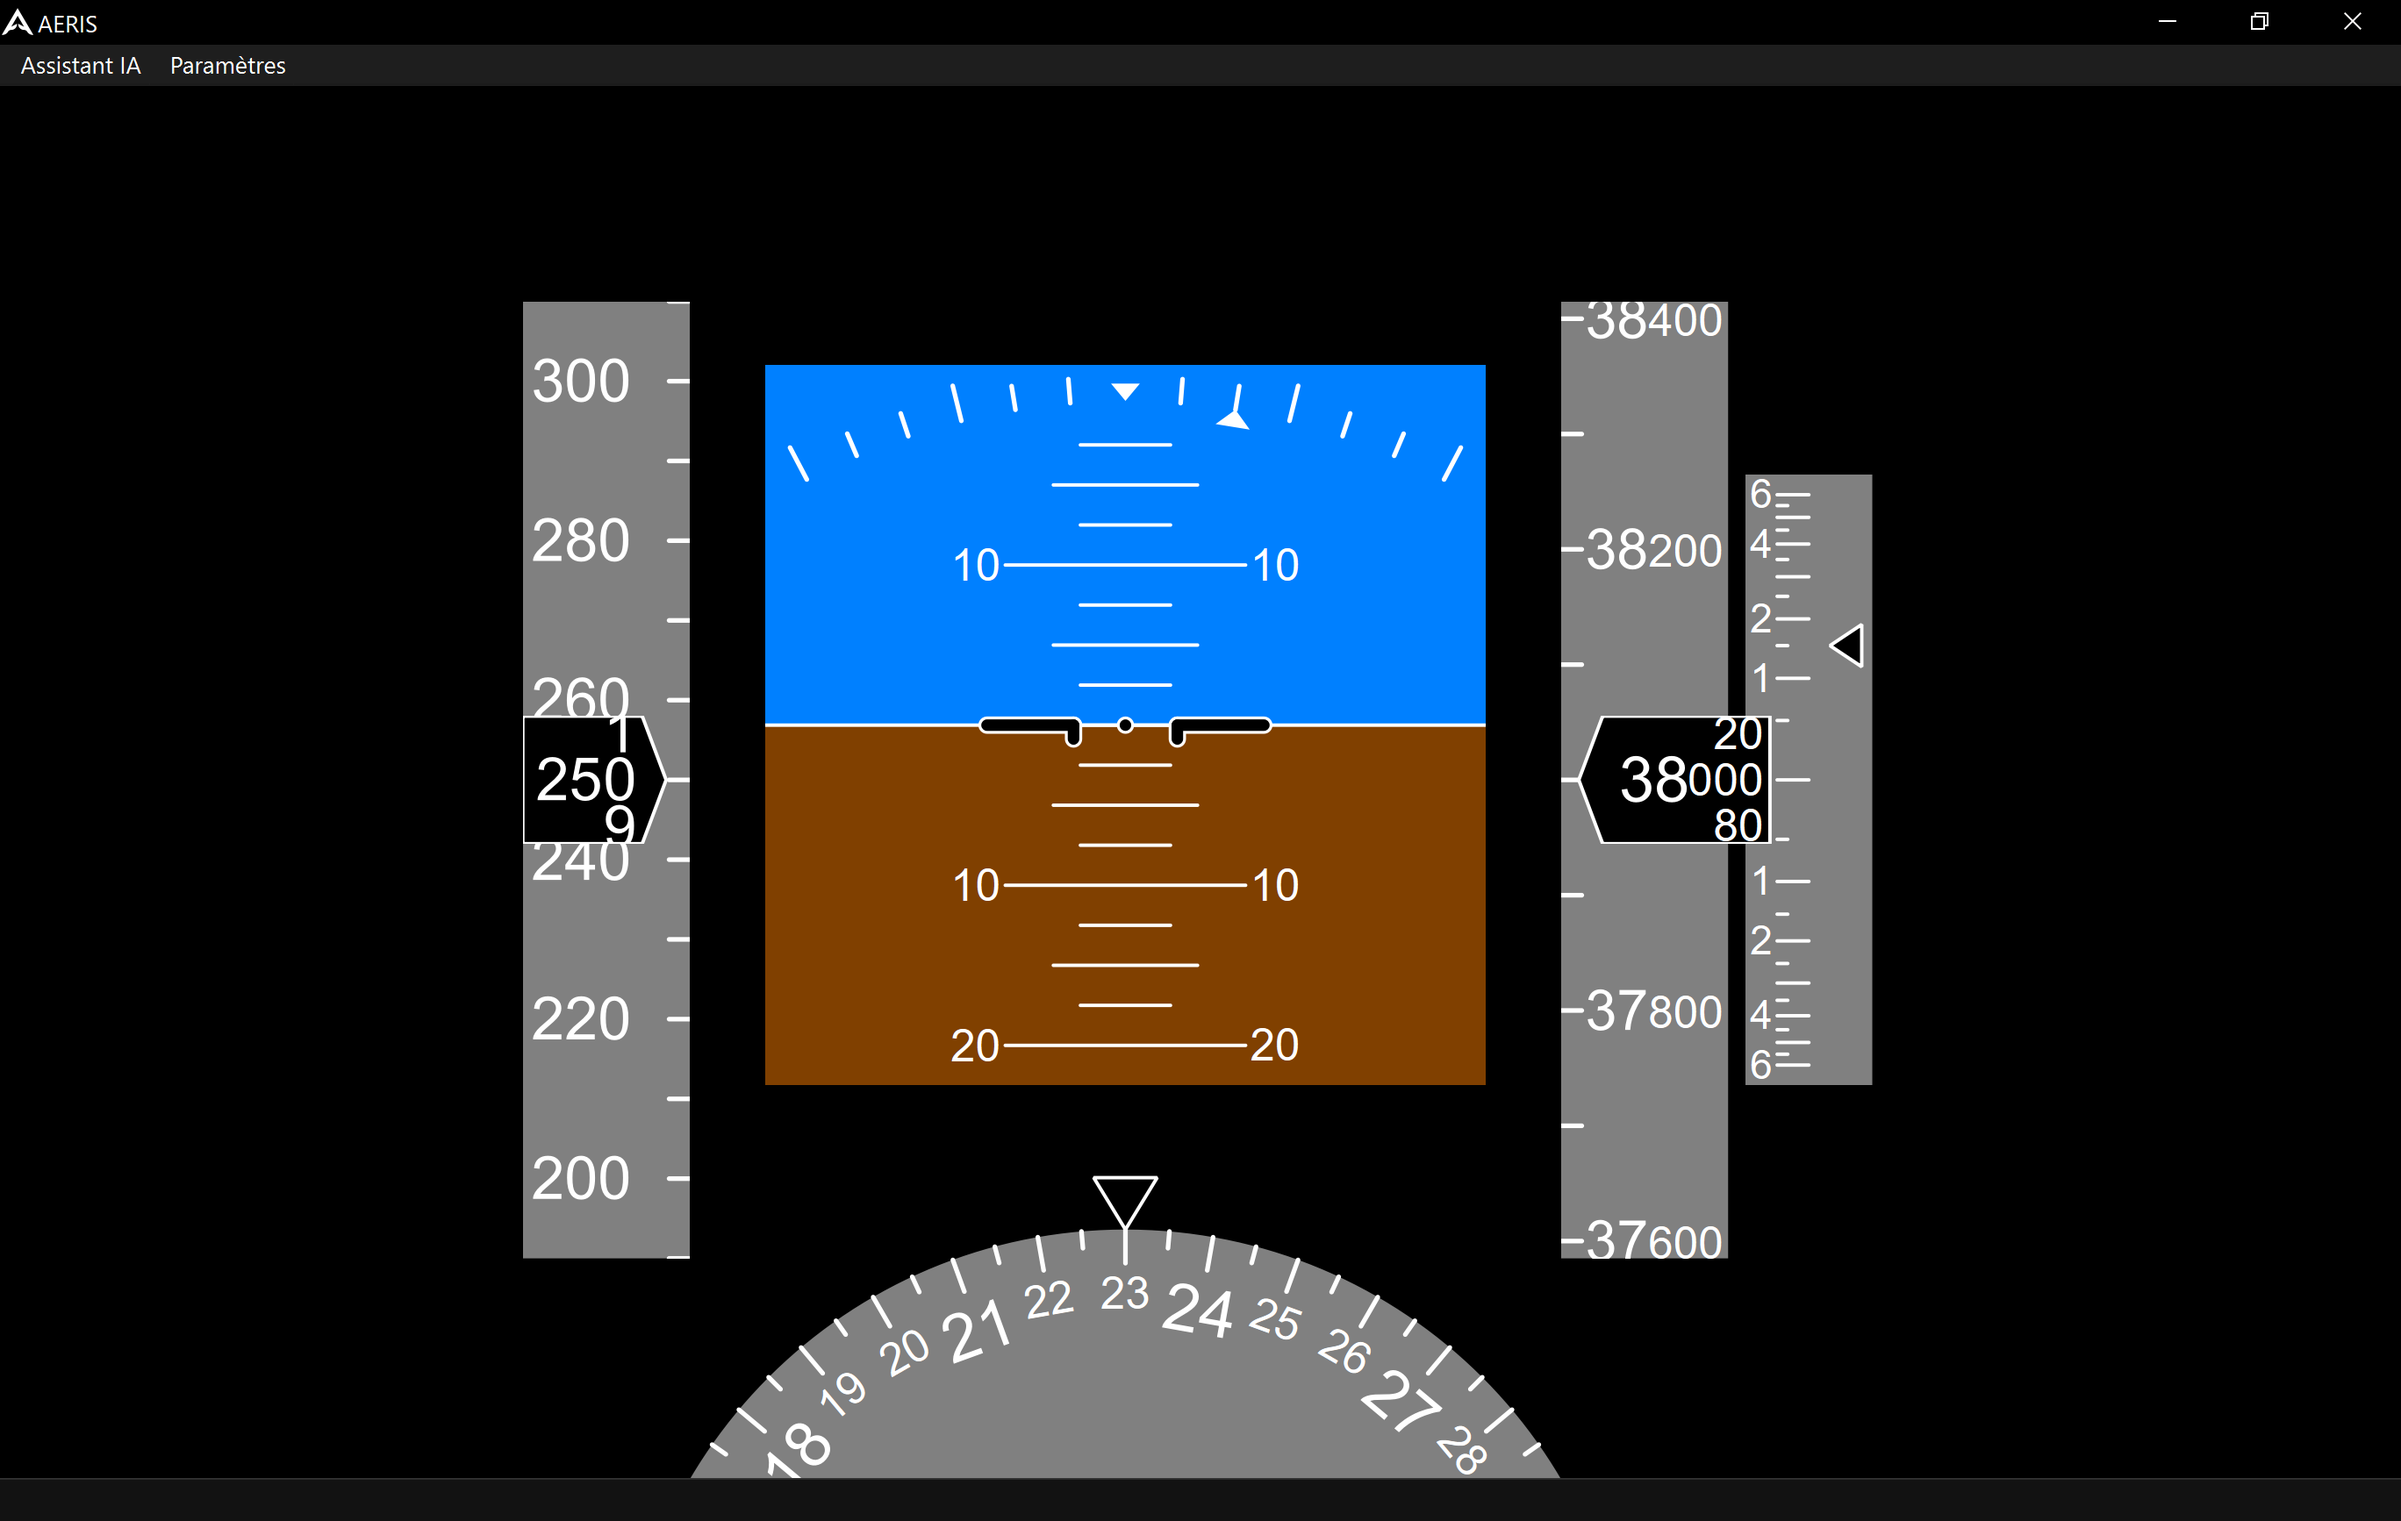
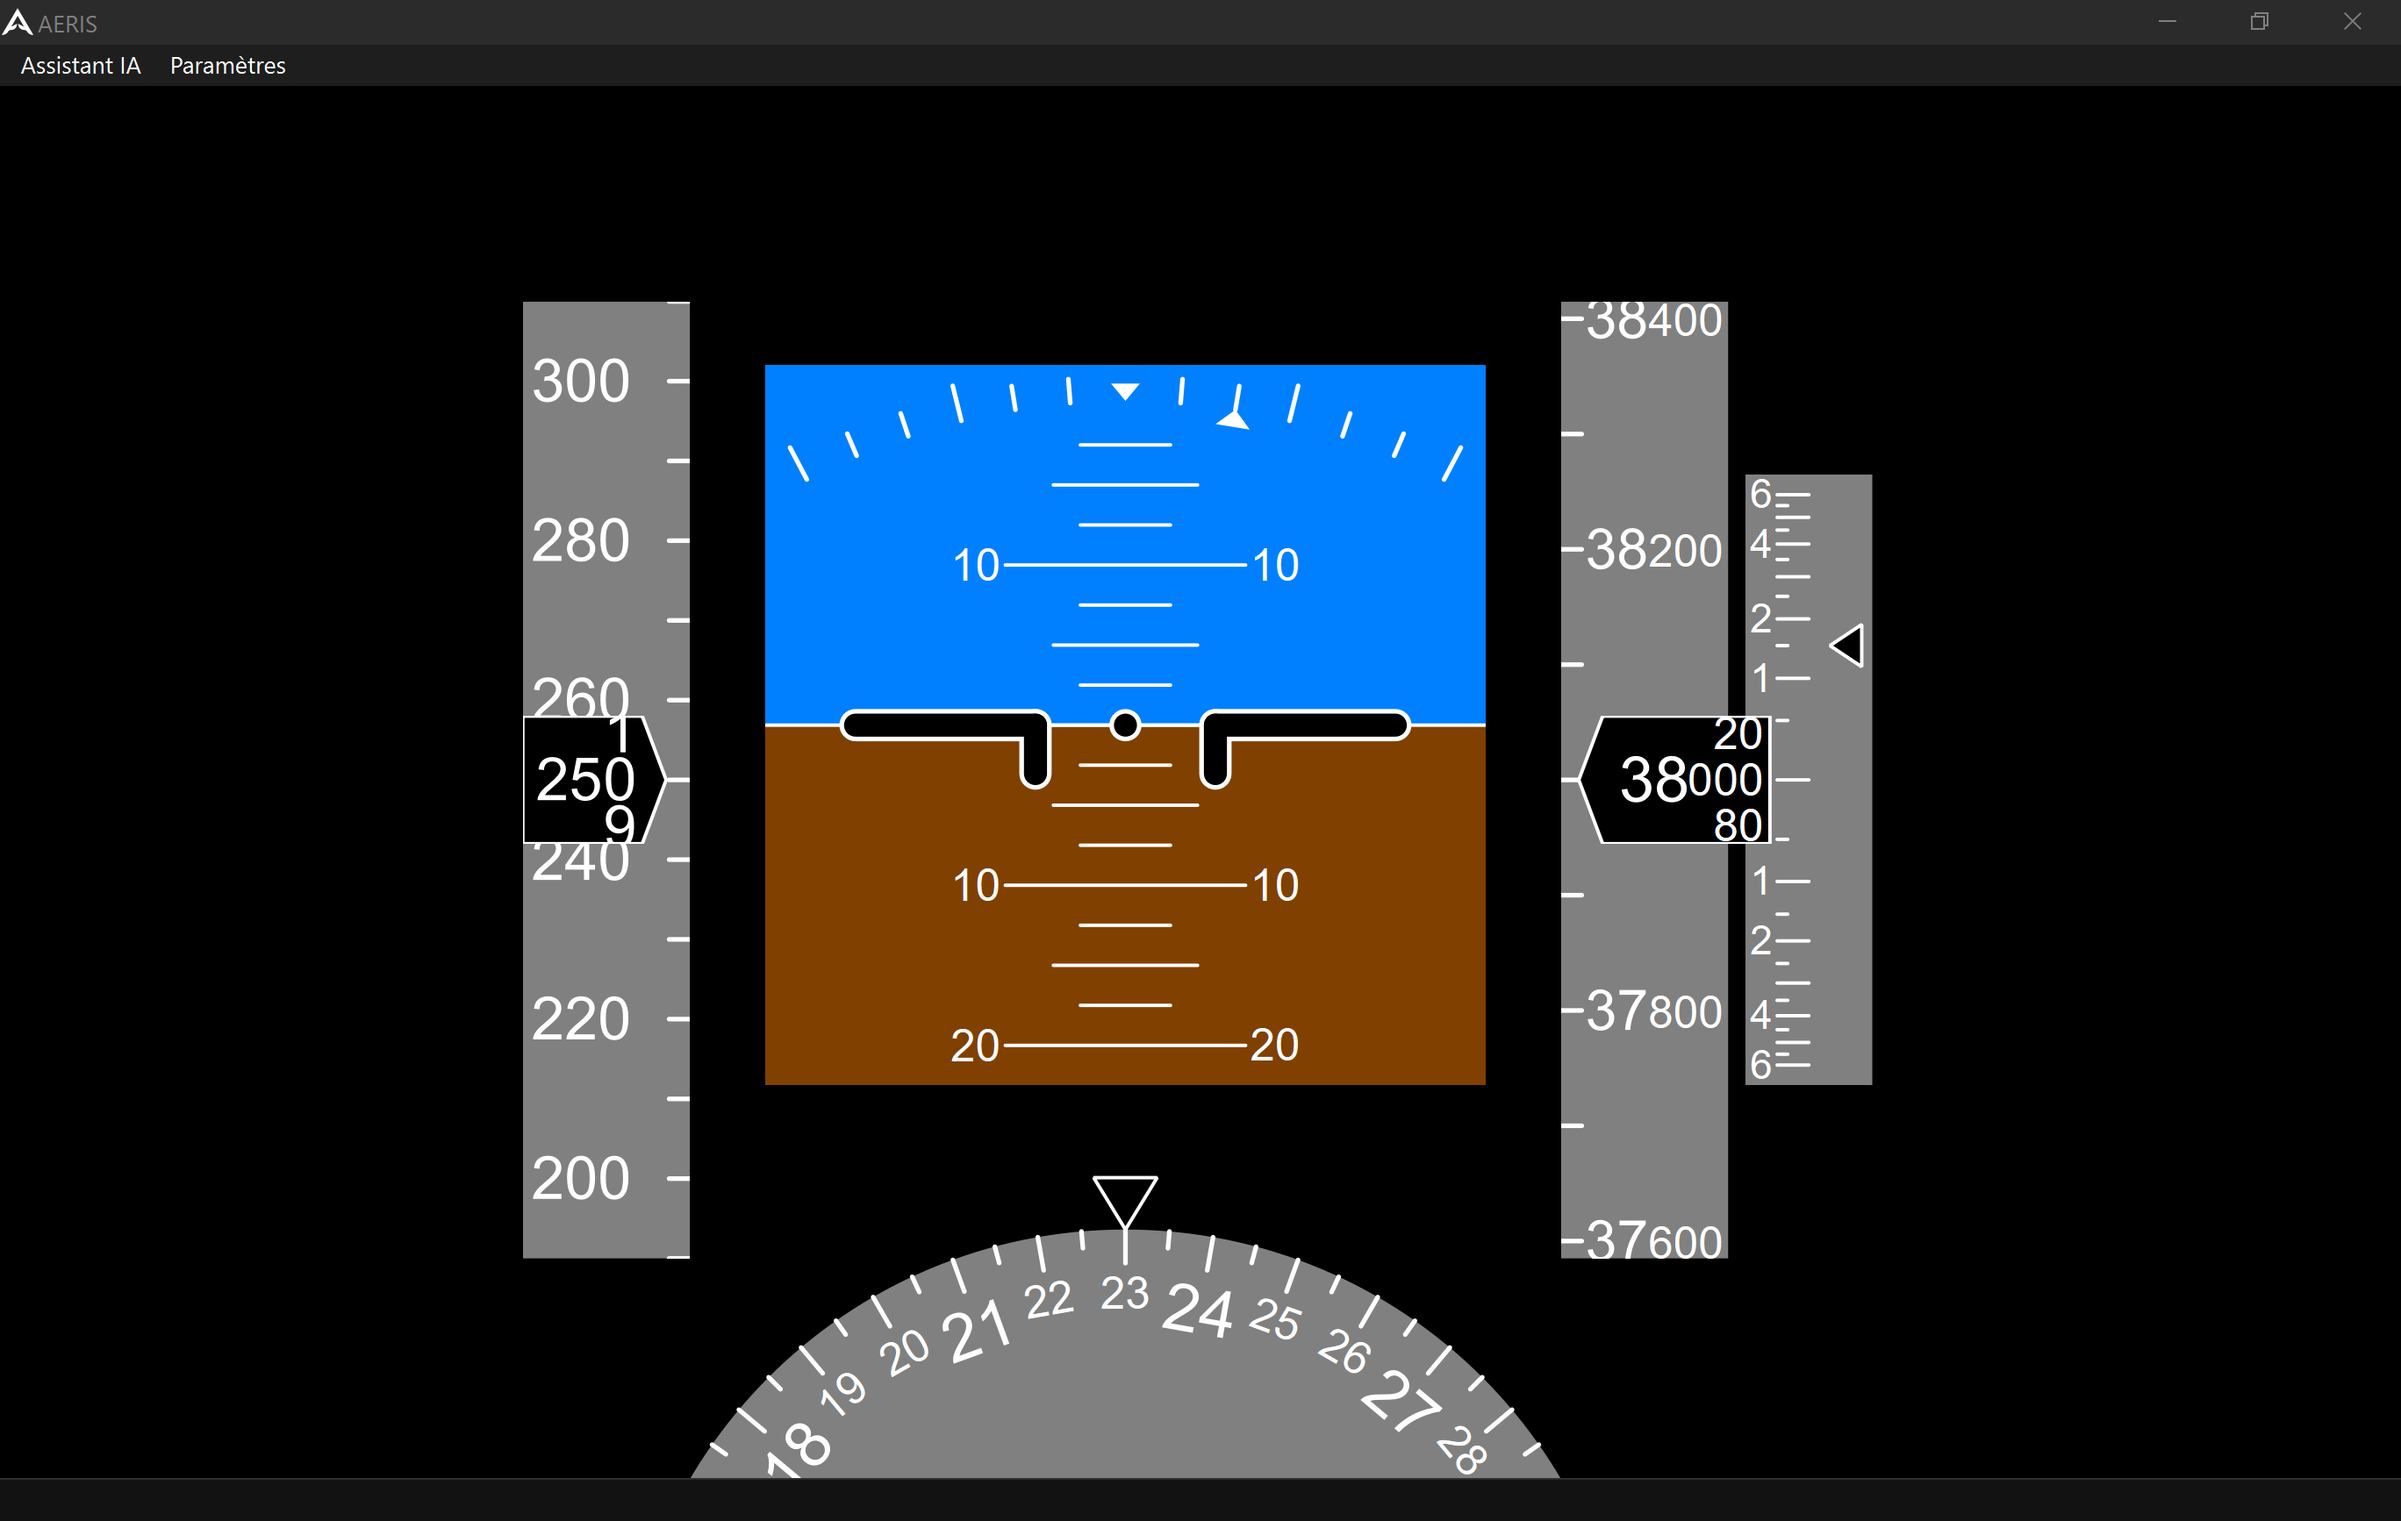
Modification de l'affichage de l'avion de l'horizon artificiel

Changed region(s): [[0.0, 0.0, 1.0, 0.0311], [0.3417, 0.4671, 0.5903, 0.5294]]

diff --git a/software/ui/artificialHorizon/instrument.py b/software/ui/artificialHorizon/instrument.py
@@ -17,12 +17,12 @@ class ArtificialHorizonInstrument(QGraphicsItemGroup):
         self.height = height
 
         settings = QSettings("ENSC", "AERIS")
-        self.currentLineWeight = settings.value("lineWeight", 10, int)
-        self.currentDotRadius = settings.value("dotSize", 10, int)
-        self.currentOutlineWeight = settings.value("outlineWeight", 5, int)
-        self.currentWingsDistance = settings.value("WingsDistance", 45, int)
-        self.currentWingsSpan = settings.value("WingsSpan", 75, int)
-        self.currentWingsHeight = settings.value("WingsHeight", 12, int)
+        self.currentLineWeight = settings.value("lineWeight", int(width/30), int)
+        self.currentDotRadius = settings.value("dotSize", int(width/30), int)
+        self.currentOutlineWeight = settings.value("outlineWeight", int(width/75), int)
+        self.currentWingsDistance = settings.value("WingsDistance", width/8, int)
+        self.currentWingsSpan = settings.value("WingsSpan", width/4, int)
+        self.currentWingsHeight = settings.value("WingsHeight", width/15, int)
 
         self.setFlag(QGraphicsItem.GraphicsItemFlag.ItemClipsChildrenToShape, True)
 
